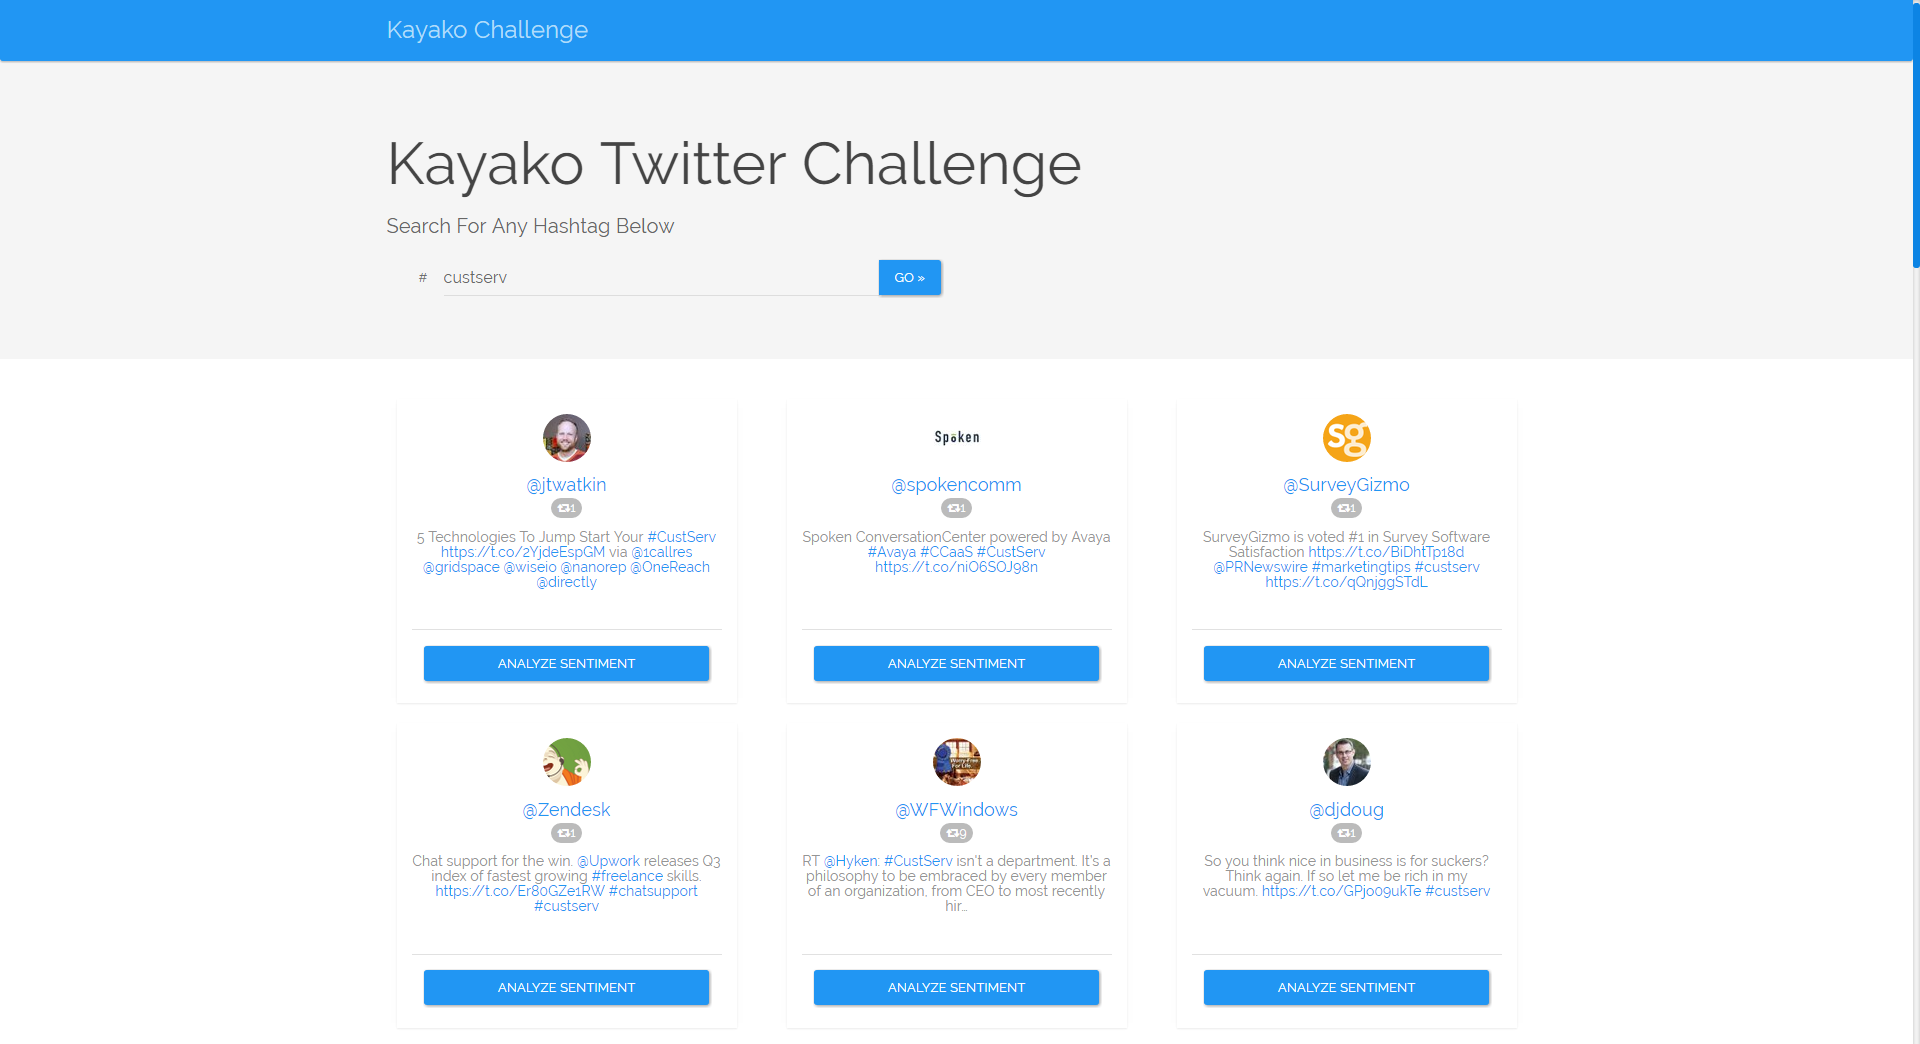
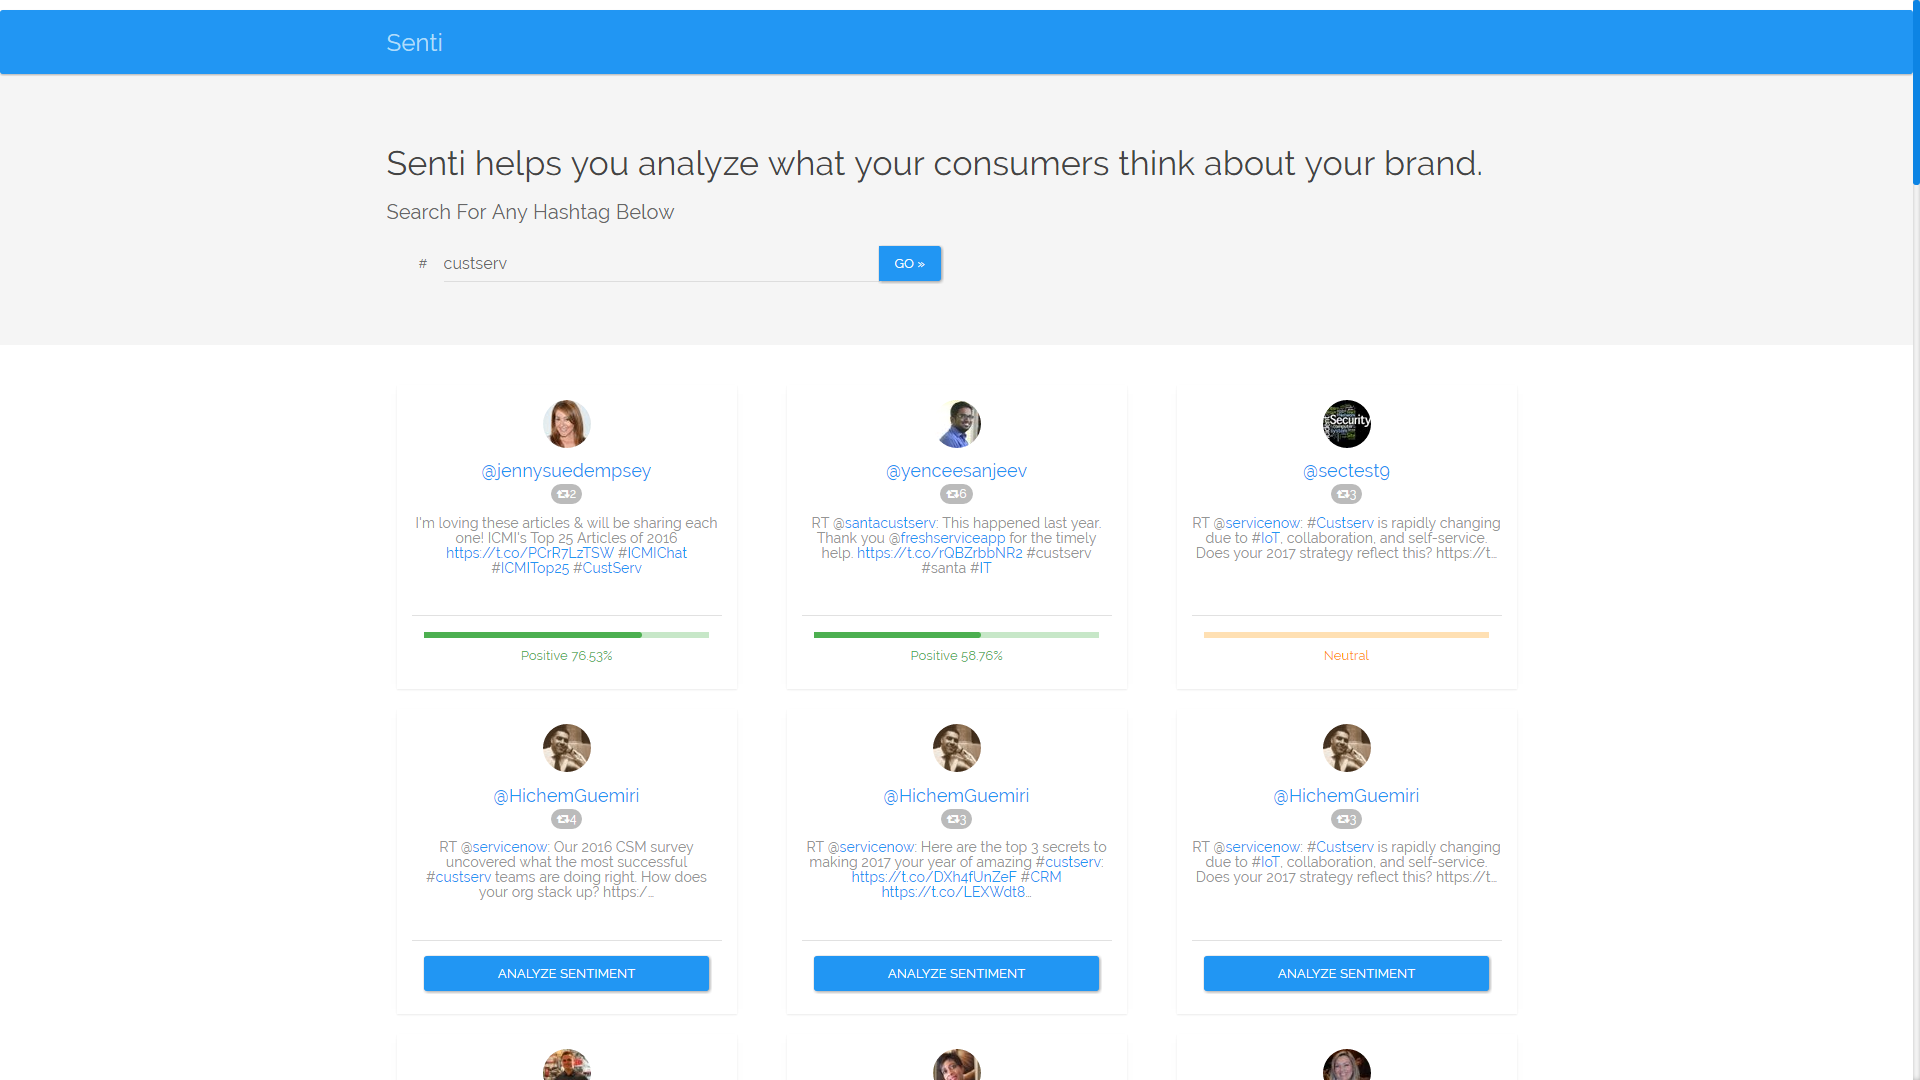
Removed Commenting

diff --git a/index.php b/index.php
@@ -22,12 +22,11 @@ switch($route)
 	// Route for index page
 	case '/': 
 		// Some SEO stuff	
-		$seo = array(
-			'title' => 'Kayako Challenge',
-			'keywords' => 'kayako, helpdesk software, twitter hashtag search, sentiment analysis, twitter app',
-			'description' => 'This App allows you to search for any hashtag and analyze its sentiment (positive, negative or neutral)',
-			'site_name' => 'https://naman-malhotra.rhcloud.com/kayako/'
-			);
+$seo = array('title' => 'Senti App',
+			 'keywords' => 'Senti , helpdesk software, twitter hashtag search, sentiment analysis, twitter app',
+			 'description' => 'This App allows you to search for any hashtag and analyze its sentiment (positive, negative or neutral)',
+			 'site_name' => 'https://naman-malhotra.rhcloud.com/senti/'
+			 );
 
 		$view = "index.php";
 			//RenderView Object

diff --git a/app/views/index.php b/app/views/index.php
@@ -3,10 +3,10 @@
 
 <div class="jumbotron">
   <div class="container">
-    <h1>Kayako Twitter Challenge</h1>
-    <p>
-      Search For Any Hashtag Below
-    </p>
+    <h3>Senti helps you analyze what your consumers think about your brand.</h3>
+        <p>
+            Search For Any Hashtag Below
+        </p>
     
     <div class="col-md-6 col-lg-6">
      <div class="form-group">

diff --git a/app/views/header.php b/app/views/header.php
@@ -49,7 +49,7 @@
       <div class="container">
         <div class="navbar-header">
          
-          <a class="navbar-brand" href="#">Kayako Challenge</a>
+          <a class="navbar-brand" href="#">Senti</a>
       </div>
       <div id="navbar" class="navbar-collapse collapse">
           

diff --git a/app/views/footer.php b/app/views/footer.php
@@ -1,5 +1,5 @@
    <footer>
-   	<center><p>&copy; Kayako 2016</p></center>
+   	<center><p>&copy; Senti 2016</p></center>
    	
    </footer>
    

diff --git a/README.md b/README.md
@@ -1,4 +1,4 @@
-# Kayako Twitter Challenge (Senti)
+# Senti App
 
 With Senti you can search any hashtag on twitter which are retweeted at least once and analyze its sentiment (positive, negative or neutral).
 
@@ -6,7 +6,7 @@ With Senti you can search any hashtag on twitter which are retweeted at least on
 
 # Live Demo
 
-  [https://naman-malhotra.rhcloud.com/kayako/] (https://naman-malhotra.rhcloud.com/kayako/)
+  [https://letsconnect.co/senti/] (https://letsconnect.co/senti/)
 
 # Features
 - Material UI.
